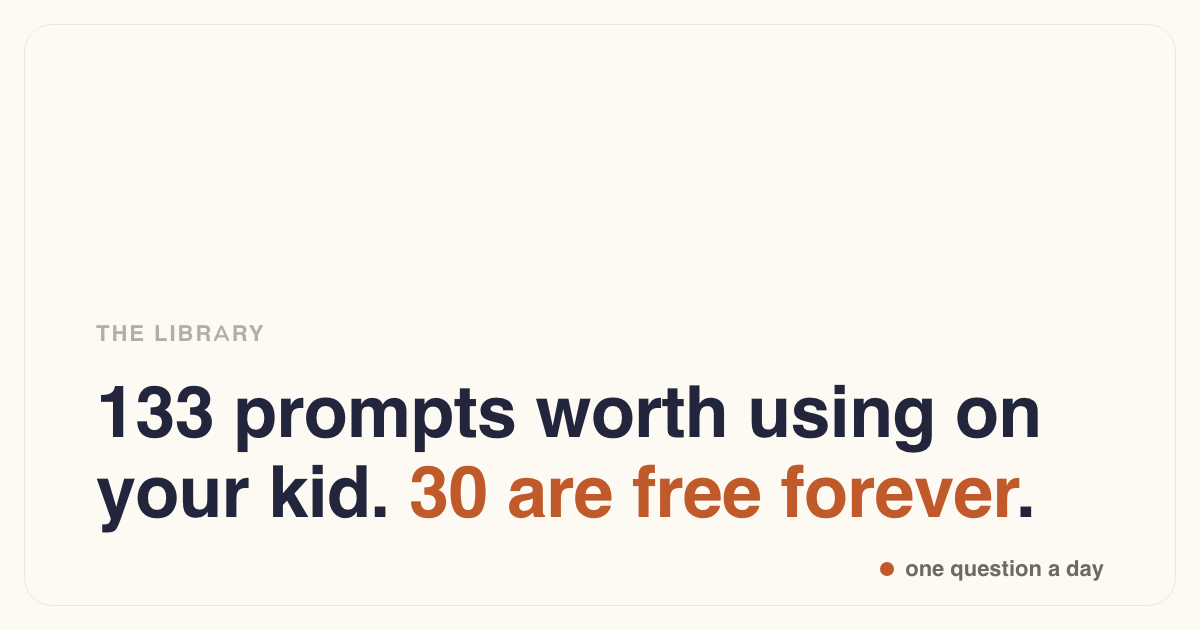
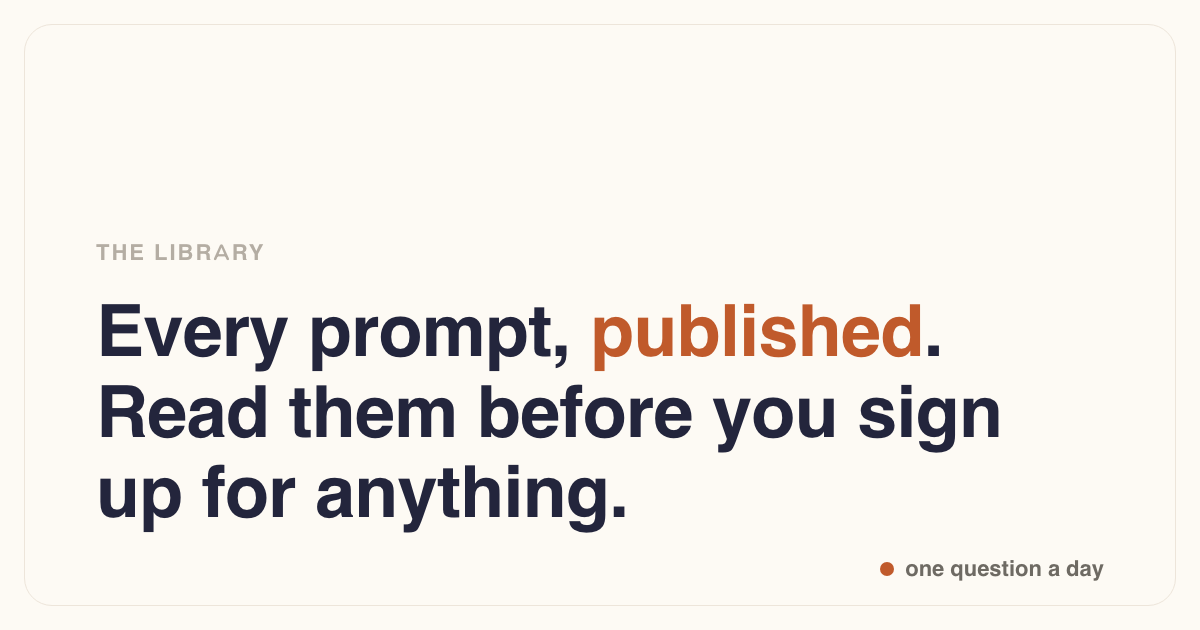
Phase 109: the adversarial re-read found a page that dares you to check it
Eleven findings survived four attackers and their sceptics. The one that matters
is the privacy page, which said "Right now it doesn't load at all — signups
aren't open yet, so there is no third-party code running on this site
whatsoever", and invited the reader to confirm it in their network tab.

Both halves are false. site.js carries a real Turnstile site key, so the script
loads on the two pages with the form, and the form posts to a live endpoint. The
same pass corrected the footer's version of this claim and missed the one page
whose entire job is that claim. It is corrected rather than deleted, because a
page that tells you to open devtools has to survive somebody doing it.

Same root cause, same page: "your email address, and which page you were on —
that is the entire request body" omits the third field, turnstile_token, which is
the first thing visible in the network tab the sentence points at.

The rest were mine, from this branch:

- the pricing FAQ rendered "Nothing. two weeks with everything open" — TRIAL is
  lowercase by design and that was the one place it started a sentence
- the home page carries its own FAQPage JSON-LD, and the sealed-letters answer
  was corrected on /faq only, so the site emitted two different machine-readable
  answers to the same question
- /prompts called all 133 "Every question Vellum asks" in its H1, title and
  JSON-LD, eight lines above a new paragraph saying 30 of them are questions
[…]

Changed region(s): [[0.0617, 0.4825, 0.8633, 0.8444], [0.0925, 0.3921, 0.2158, 0.4222]]

diff --git a/src/pages/index.html b/src/pages/index.html
@@ -25,7 +25,7 @@ class: home
     { "@type": "Question", "name": "Do I have to use it for eighteen years for it to be worth anything?",
       "acceptedAnswer": { "@type": "Answer", "text": "No. A hundred entries is already a thing your kid doesn't have. There's no threshold." } },
     { "@type": "Question", "name": "What happens to it when they grow up?",
-      "acceptedAnswer": { "@type": "Answer", "text": "That's a decision the family makes, not one the app makes for you. Sealed entries can be written to open at an age you choose. The export means the archive is handed over as a real object, whatever you decide." } }
+      "acceptedAnswer": { "@type": "Answer", "text": "That's a decision the family makes, not one the app makes for you. Sealed entries — part of membership — can be written to open at an age you choose, and one you have already written stays yours whatever you pay. The export means the archive is handed over as a real object, whatever you decide." } }
   ]
 }
 </script>
@@ -51,8 +51,8 @@ class: home
         <h1>Your camera roll remembers what they looked&nbsp;like. {{PRODUCT}} remembers what they <em class="accent" style="font-style:normal">were</em> like.</h1>
 
         <p class="lede">
-A question about your kid every day, free forever, and a mission to go with it. Answer in
-          fifteen seconds, or skip it — nothing keeps score. {{PRODUCT}} is a private childhood
+          A question about your kid every day, free forever. A mission to go with it, with
+          membership. Answer in fifteen seconds, or skip it — nothing keeps score. {{PRODUCT}} is a private childhood
           journal app that grows into a whole archive: every moment is filed with the prompt that
           caused it, so in 2040 you can search <em>“what he was afraid of”</em> and actually find
           something.
@@ -592,7 +592,7 @@ A question about your kid every day, free forever, and a mission to go with it. 
         </details>
         <details class="faq__item">
           <summary class="faq__q">What happens to it when they grow up?</summary>
-          <div class="faq__a"><p>That's a decision the family makes, not one the app makes for you. Sealed entries can be written to open at an age you choose. The export means the archive is handed over as a real object, whatever you decide.</p></div>
+          <div class="faq__a"><p>That's a decision the family makes, not one the app makes for you. Sealed entries — part of membership — can be written to open at an age you choose, and one you have already written stays yours whatever you pay. The export means the archive is handed over as a real object, whatever you decide.</p></div>
         </details>
       </div>
     </div>

diff --git a/src/pages/privacy.html b/src/pages/privacy.html
@@ -27,8 +27,9 @@ og: /assets/og/default.png
       <h2>What this site collects</h2>
       <p>
         Nothing, until you decide to <a href="/waitlist">join the waitlist</a>. If you do, the
-        form sends your email address, and which page you were on when you typed it. That is the
-        entire request body — you can watch it leave in your browser's network tab.
+        form sends your email address, which page you were on when you typed it, and the token
+        the anti-spam check hands back. Three fields, and that is the entire request body — you
+        can watch it leave in your browser's network tab.
       </p>
       <p>
         There is one hidden field in that form, and it is not a tracker: it's an empty box that a
@@ -45,10 +46,12 @@ og: /assets/og/default.png
         on the pages that carry the signup form — usually you'll never see it do anything.
       </p>
       <p>
-        <strong>Right now it doesn't load at all.</strong> Signups aren't open yet, so the form is
-        switched off, and until it's on there is no third-party code running on this site
-        whatsoever. Both halves of that are checkable in your browser's network tab, which is
-        why they're written down separately.
+        <strong>It is loading now.</strong> This paragraph used to say the opposite — that signups
+        weren't open, so nothing third-party ran here at all — and that stopped being true the day
+        the check was switched on. It is corrected rather than deleted, because this is the page
+        that invites you to open your network tab and check, and a page that does that has to be
+        right. What you will see there: a request to <code>challenges.cloudflare.com</code> on the
+        two pages carrying the form, and nothing third-party on any other page.
       </p>
       <p>
         We chose it because it is the version of this that doesn't track you: it sets no

diff --git a/src/pages/prompts.html b/src/pages/prompts.html
@@ -1,5 +1,5 @@
 <!--page
-title: Every question {{PRODUCT}} asks — {{PROMPT_COUNT}} daily prompts
+title: Every prompt {{PRODUCT}} asks — {{PROMPT_COUNT}} of them, free to read
 description: All {{PROMPT_COUNT}} questions and missions, free to read. Filter by age and type — voice, photo, activity, or just something worth writing down.
 og: /assets/og/prompts.png
 class: prompts
@@ -10,7 +10,7 @@ class: prompts
 {
   "@context": "https://schema.org",
   "@type": "CollectionPage",
-  "name": "Every question {{PRODUCT}} asks",
+  "name": "Every prompt {{PRODUCT}} asks",
   "description": "All {{PROMPT_COUNT}} daily prompts — questions, photo and video missions, voice recordings, activities, letters and monthly measurements.",
   "isPartOf": { "@type": "WebSite", "name": "{{PRODUCT}}" }
 }
@@ -21,7 +21,7 @@ class: prompts
   <div class="wrap">
     <div class="stack gap-14 measure">
       <p class="eyebrow">The library</p>
-      <h1 class="t-hero">Every question {{PRODUCT}} asks</h1>
+      <h1 class="t-hero">Every prompt {{PRODUCT}} asks</h1>
       <p class="lede">
         All {{PROMPT_COUNT}} of them, free to read and free to use, whether you ever open the app or
         not. Whether you want questions to ask your 4 year old, a reason to record their voice, or one

diff --git a/src/pages/pricing.html b/src/pages/pricing.html
@@ -261,7 +261,7 @@ og: /assets/og/pricing.png
         </details>
         <details class="faq__item">
           <summary class="faq__q">What do I have to give you to try the whole thing?</summary>
-          <div class="faq__a"><p>Nothing. {{TRIAL}} with everything open — every mission, video, the lot — and there's no card, so there's nothing to cancel. When it ends, the daily question carries on and the missions become part of membership.</p></div>
+          <div class="faq__a"><p>Nothing at all. You get {{TRIAL}} with everything open — every mission, video, the lot — and there's no card, so there's nothing to cancel. When it ends, the daily question carries on and the missions become part of membership.</p></div>
         </details>
         <details class="faq__item">
           <summary class="faq__q">What happens when I hit {{FREE_PHOTOS}} photos?</summary>
@@ -284,7 +284,7 @@ og: /assets/og/pricing.png
   </div>
 </section>
 
-<section class="section">
+<section class="section section--rule">
   <div class="wrap wrap--narrow center stack gap-20">
     <h2 class="t-section">The question is free either way</h2>
     <p class="lede" style="max-width:none">

diff --git a/src/pages/compare/tinybeans.html b/src/pages/compare/tinybeans.html
@@ -35,8 +35,8 @@ og: /assets/og/compare-tinybeans.png
         </p>
         <p class="t-body muted">
           {{PRODUCT}} is a private archive for one household. It asks you a question about your kid
-          every day — free, forever — and adds a mission with membership, files every answer with the
-          prompt that caused it, and builds something you eventually hand to your kid. Nobody follows it. There is no feed. It isn't made for the
+          every day — free, forever — adds a mission to that with membership, files every answer with
+          the prompt that caused it, and builds something you eventually hand to your kid. Nobody follows it. There is no feed. It isn't made for the
           audience — it's made for the person it's about.
         </p>
         <p class="t-body muted">

diff --git a/docs/seo-plan.md b/docs/seo-plan.md
@@ -142,7 +142,7 @@ for an ongoing childhood, not the first six months, and ranking would bring traf
 |---|---|---|---|
 | `/` | private childhood journal app | `{{PRODUCT}} — a daily prompt journal for your kid's childhood` | H1 stays the emotional line; keyword lives in title + first 100 words |
 | `/how-it-works` | daily prompt journal for parents | `How {{PRODUCT}} works — one prompt a day, saved with context` | Best `HowTo` schema candidate |
-| `/prompts` | questions to ask your 4 year old | `Every question {{PRODUCT}} asks — 133 daily prompts` | **Pillar. Highest long-tail surface on the site** |
+| `/prompts` | questions to ask your 4 year old | `Every prompt {{PRODUCT}} asks — 133 of them, free to read` | **Pillar. Highest long-tail surface on the site.** The title says *prompt* rather than *question* as of Aug 21 2026: only 30 of the 133 are questions, and the page now says so eight lines under its own H1. The long-tail phrase is unaffected — it is carried by the H2 *"The same questions to ask your 4 year old still work at nine"*, which is where it always did the work |
 | `/pricing` | *(brand + pricing)* | `{{PRODUCT}} pricing — the daily question is always free` | Low organic value, high conversion value |
 | `/promise` | ad free childhood memory app | `Our promise — what happens to your archive \| {{PRODUCT}}` | Natural backlink target |
 | `/compare/tinybeans` | tinybeans alternative | `{{PRODUCT}} vs Tinybeans — a private, ad-free alternative` | Highest-value page on the site |

diff --git a/docs/site-content.md b/docs/site-content.md
@@ -479,9 +479,9 @@ email. No competitor publishes theirs — Qeepsake meters them by tier. (Narrowe
 missions are metered by tier here too now. What still separates the page is that the daily
 **question** is never metered, and that all 133 are published to read either way.)
 
-- **Title:** `Every question {{PRODUCT}} asks — 133 daily prompts` (52)
+- **Title:** `Every prompt {{PRODUCT}} asks — 133 of them, free to read` (55)
 - **Meta:** `All 133 questions and missions, free to read. Filter by age and type — voice, photo, activity, or just something worth writing down.` (135)
-- **H1:** Every question {{PRODUCT}} asks
+- **H1:** Every prompt {{PRODUCT}} asks — *prompt*, not *question*: 30 of the 133 are questions and the page says so directly below, so the heading cannot call all 133 questions
 
 **Intro:**
 
